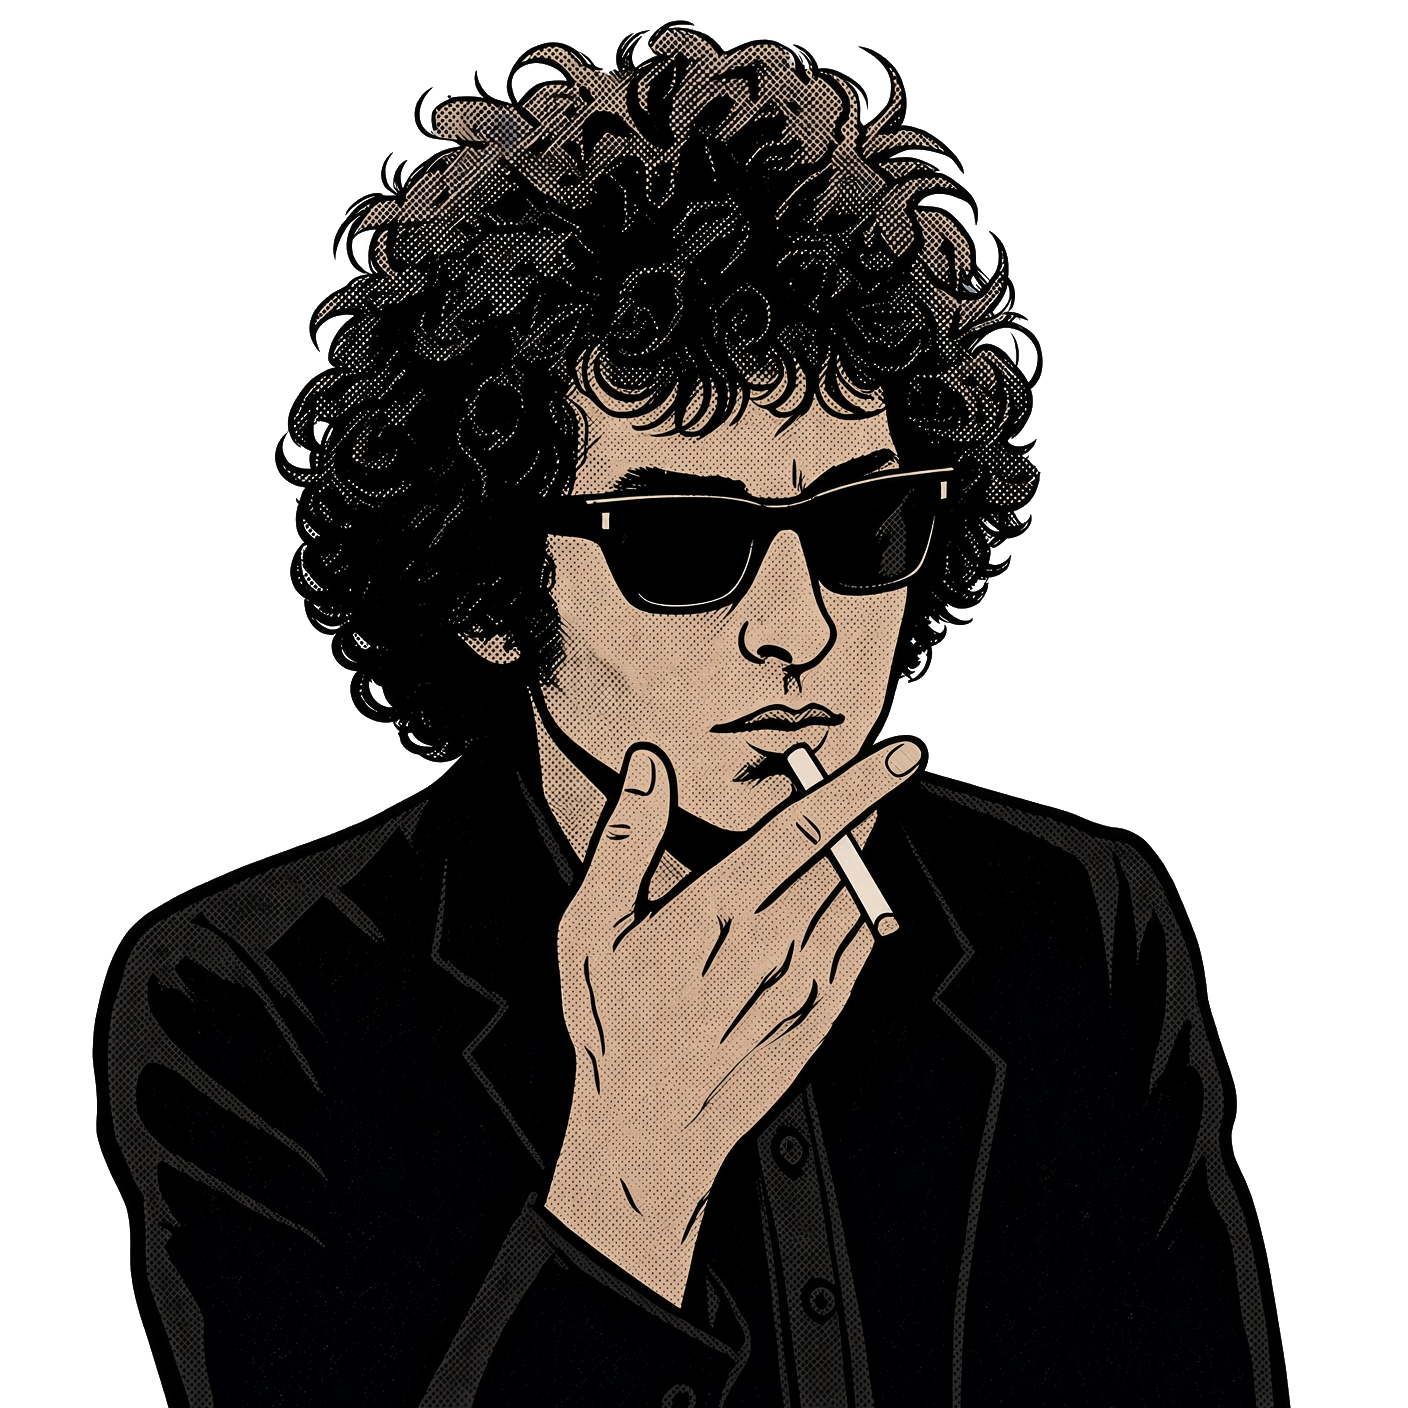
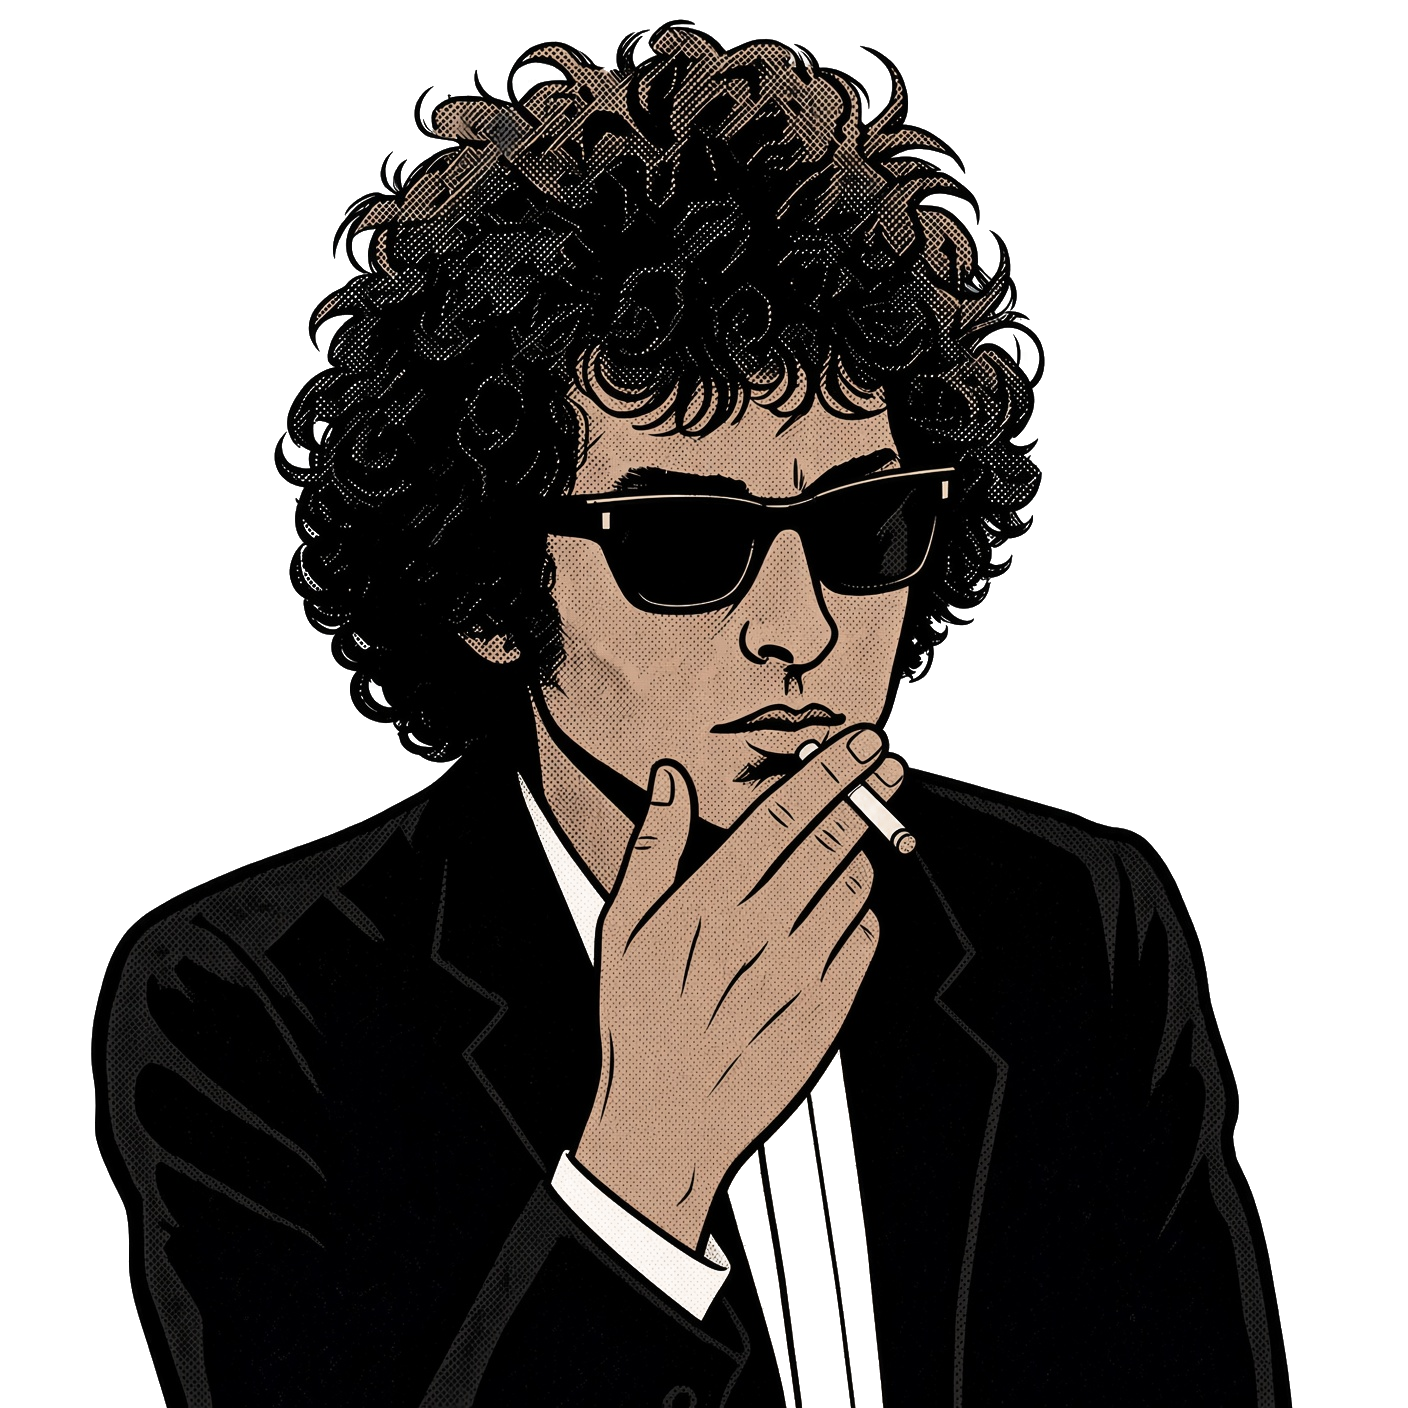
Swap hero to new portrait variant, ease off desktop shrink
Background cleaned with the same connected-component approach. Desktop
cap raised from 34vh/300px back to 44vh/360px since the previous shrink
was more than needed to avoid scrolling.

diff --git a/app/globals.css b/app/globals.css
@@ -609,7 +609,7 @@ img {
   }
 
   .hero-image-wrap {
-    width: min(100%, 34vh, 300px);
+    width: min(100%, 44vh, 360px);
   }
 }
 
